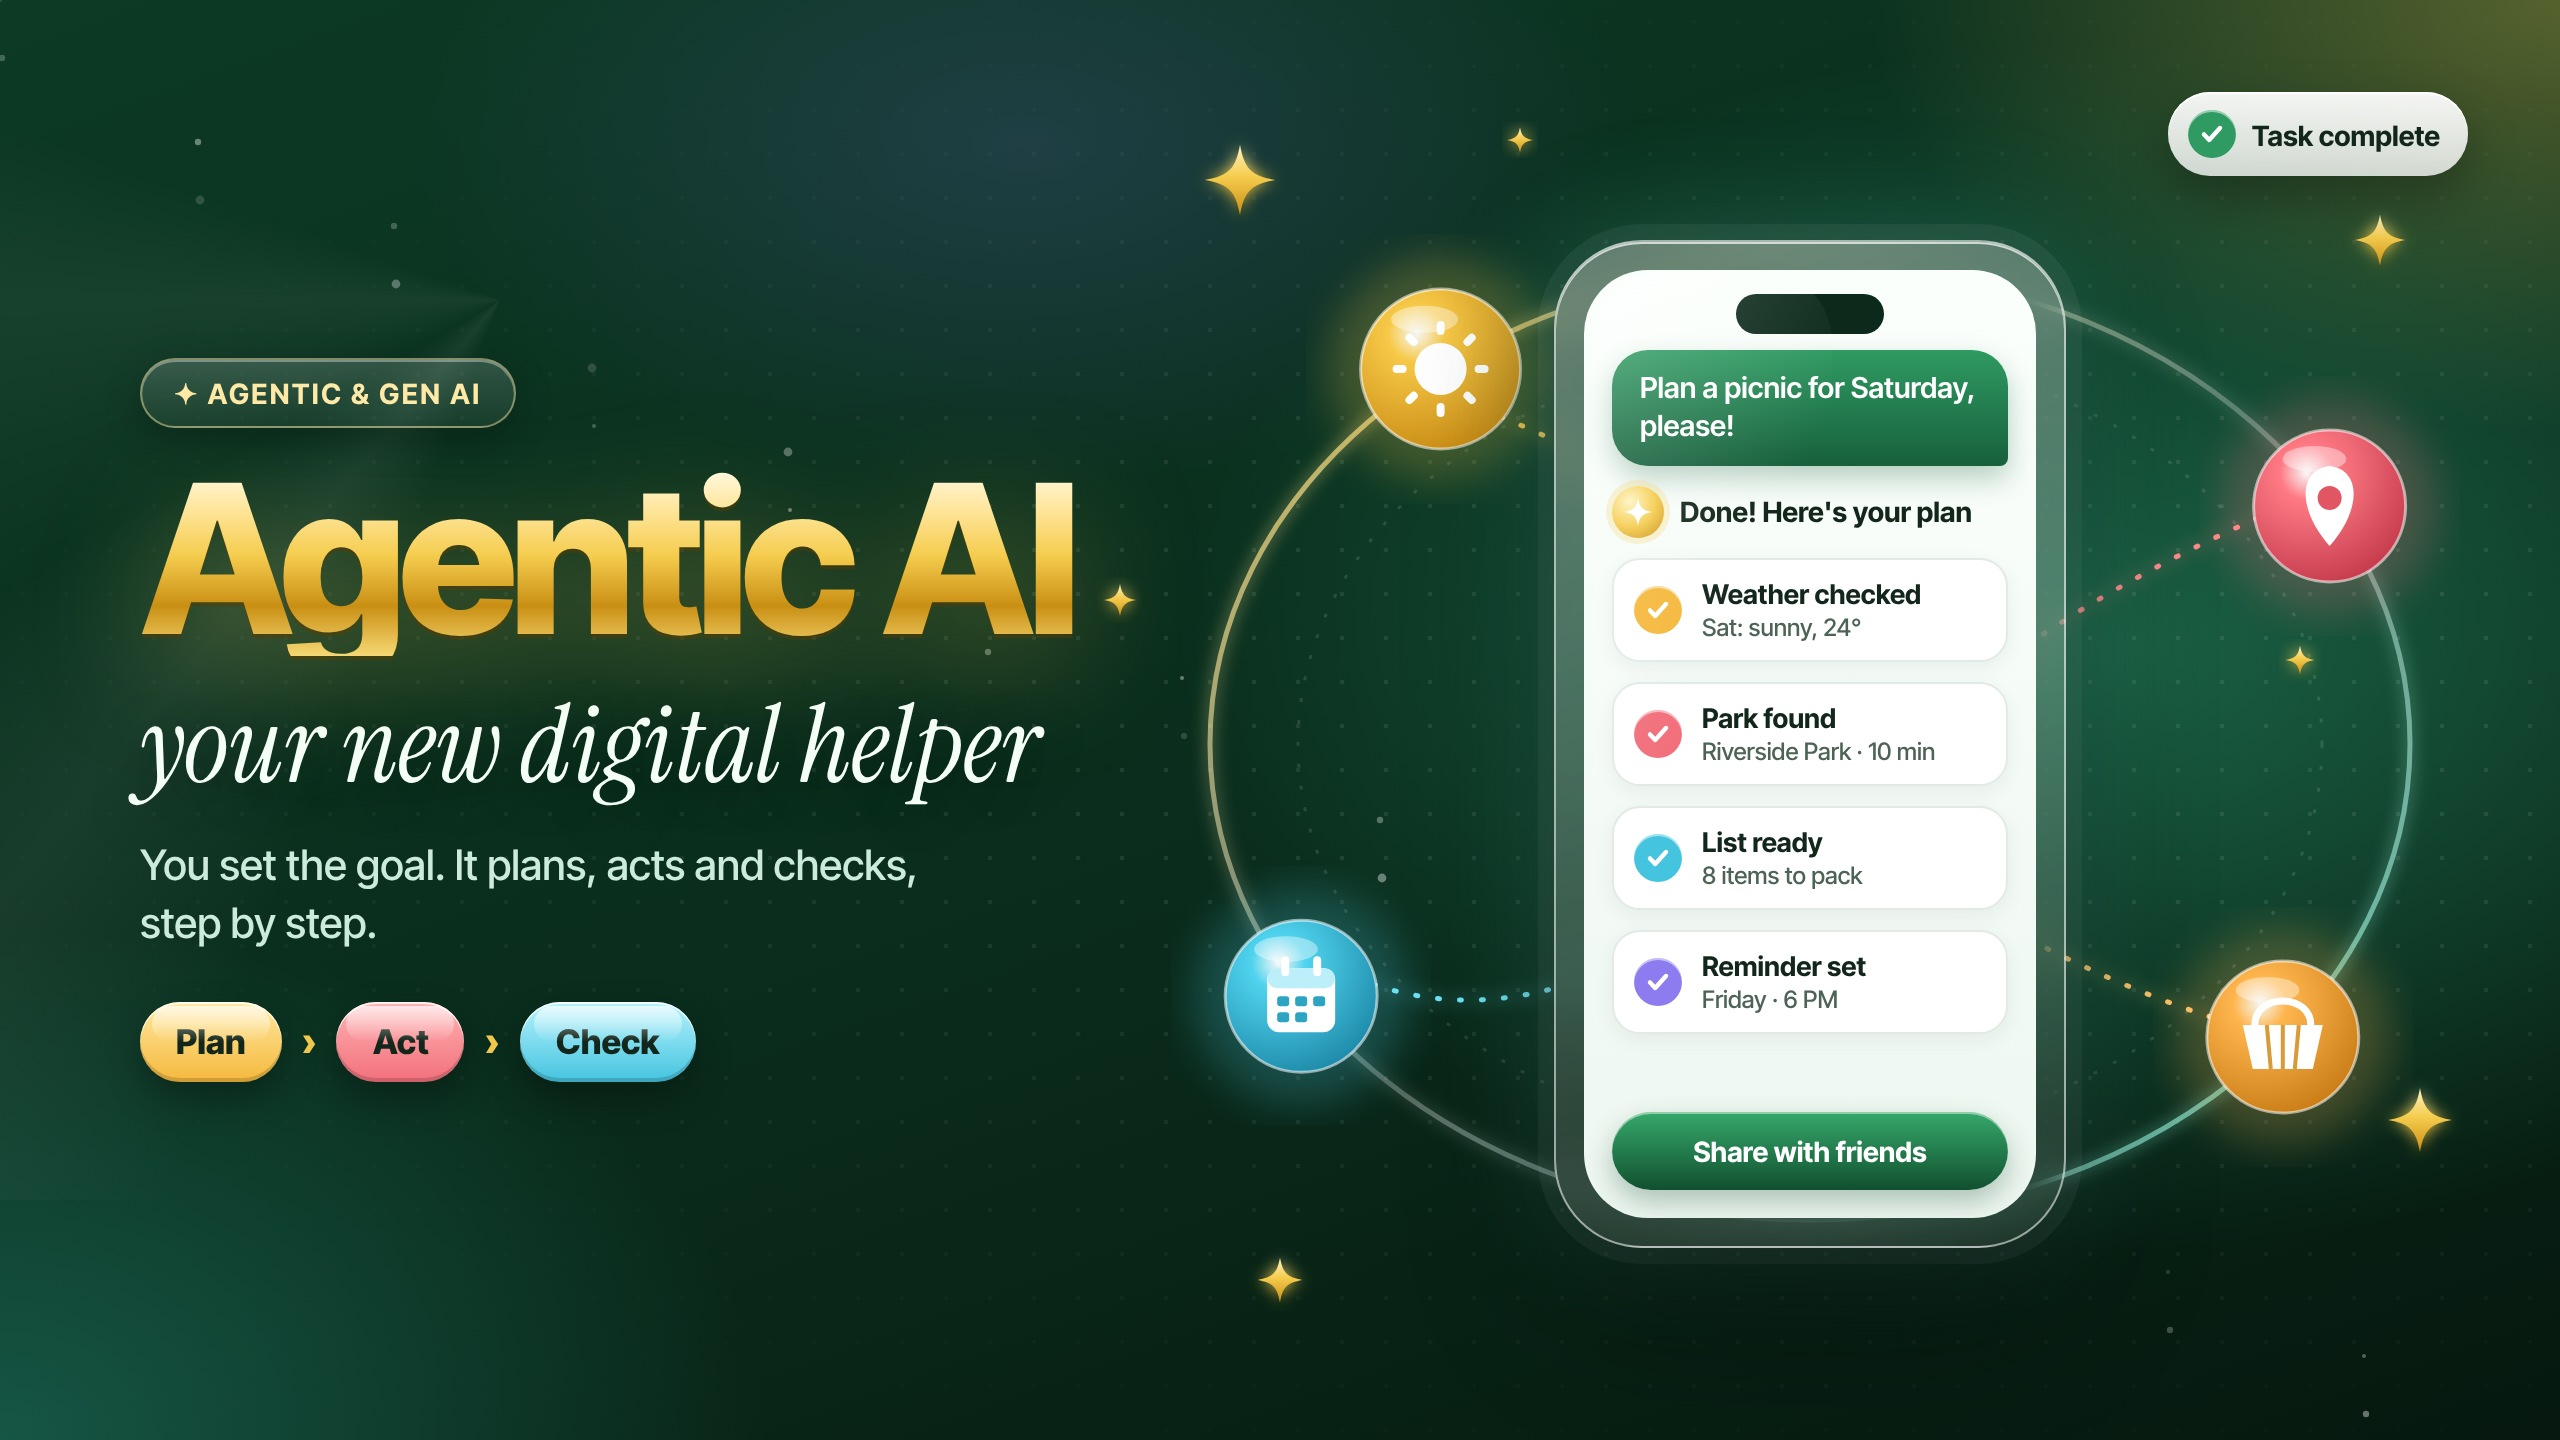
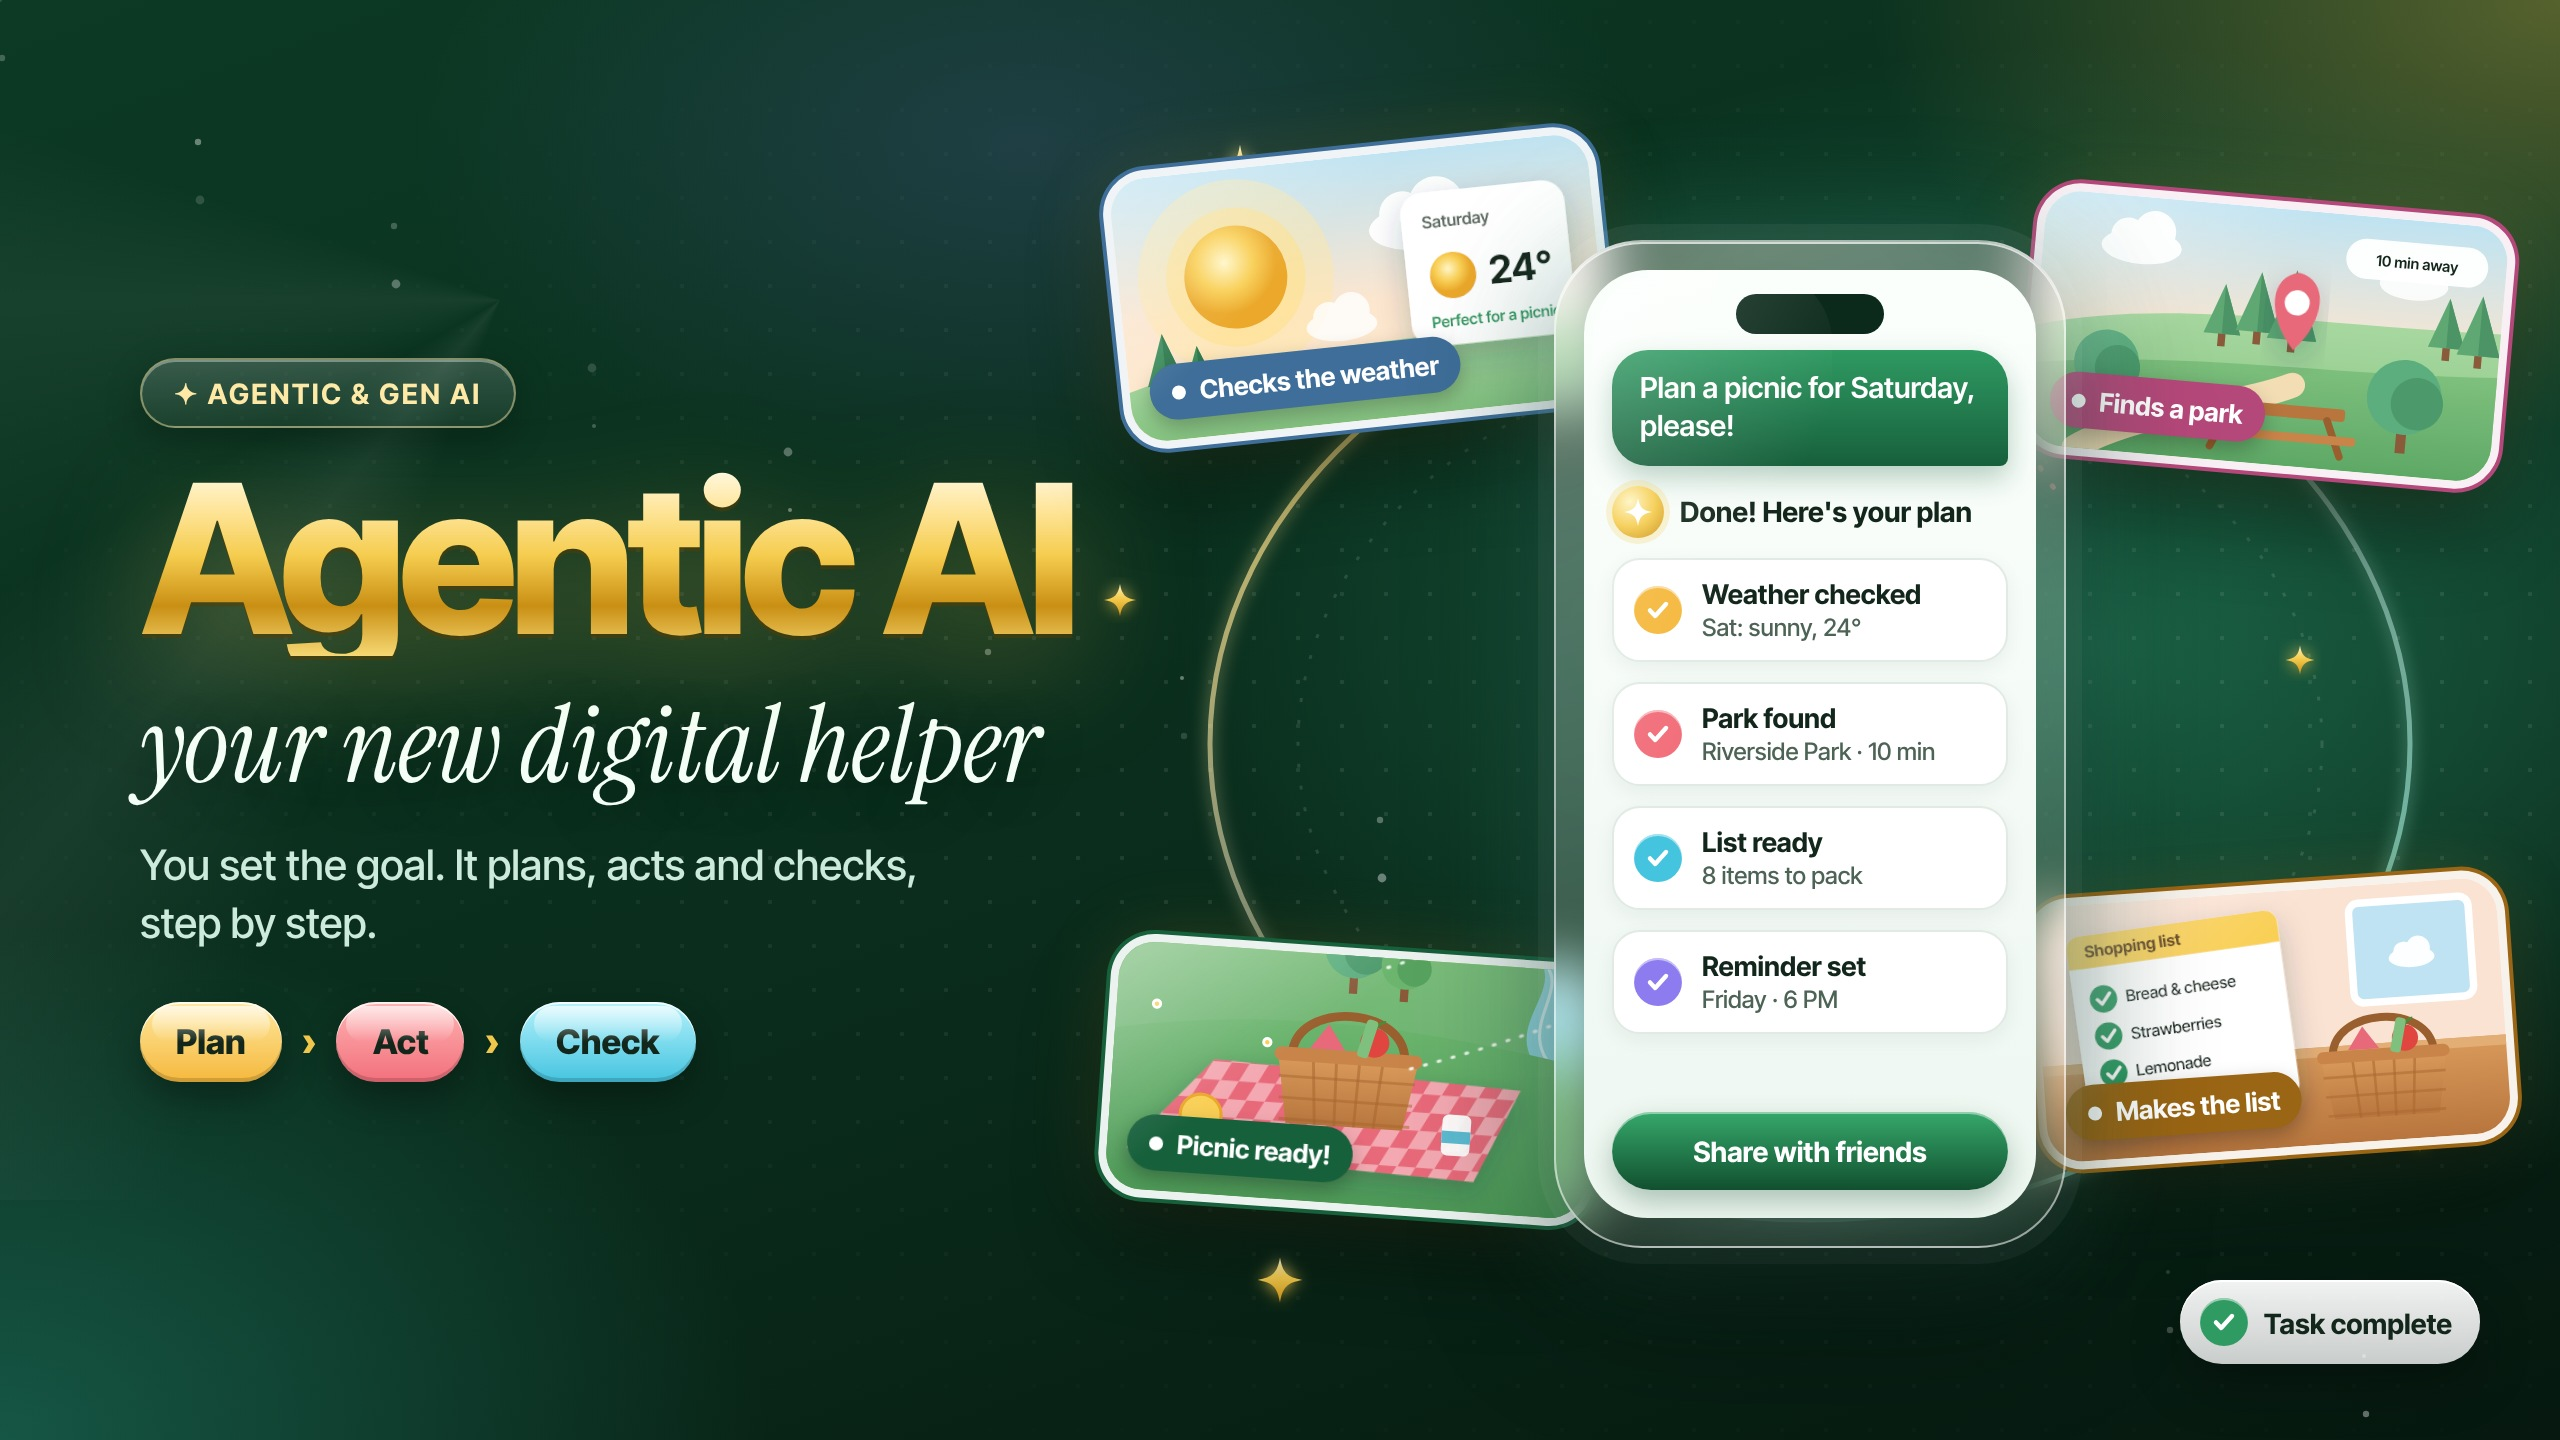
Agentic AI cover: add illustrated picture cards
Claude-Session: https://claude.ai/code/session_011joVF6bbyZDhpZpCEdrVDq

diff --git a/src/content/posts/what-is-agentic-ai.md b/src/content/posts/what-is-agentic-ai.md
@@ -6,7 +6,7 @@ topic: "Agentic & Gen AI"
 level: Beginner
 featured: true
 cover: /images/cover-agentic.jpg
-coverAlt: "A shiny green and gold cover: the gold headline 'Agentic AI' above 'your new digital helper' and three glossy buttons, Plan, Act and Check. Beside it a glass phone shows the request 'Plan a picnic for Saturday, please!' answered with four ticked steps: weather checked, park found, list ready and reminder set. Glowing icons for the weather, a map pin, a picnic basket and a calendar orbit the phone, with a 'Task complete' badge in the corner."
+coverAlt: "A shiny emerald and gold cover: the gold headline 'Agentic AI' above 'your new digital helper' and three glossy buttons, Plan, Act and Check. A glass phone shows the request 'Plan a picnic for Saturday, please!' with four ticked steps, surrounded by four illustrated picture cards: a sunny 24° forecast, a park with a map pin and picnic table, a ticked shopping list beside a basket, and a checked picnic blanket with a basket on the grass, plus a 'Task complete' badge."
 ---
 
 **Agentic AI** is one of the biggest AI trends right now, and for good reason. It's the moment AI goes from *talking* about your to-do list to actually *ticking things off* it.
